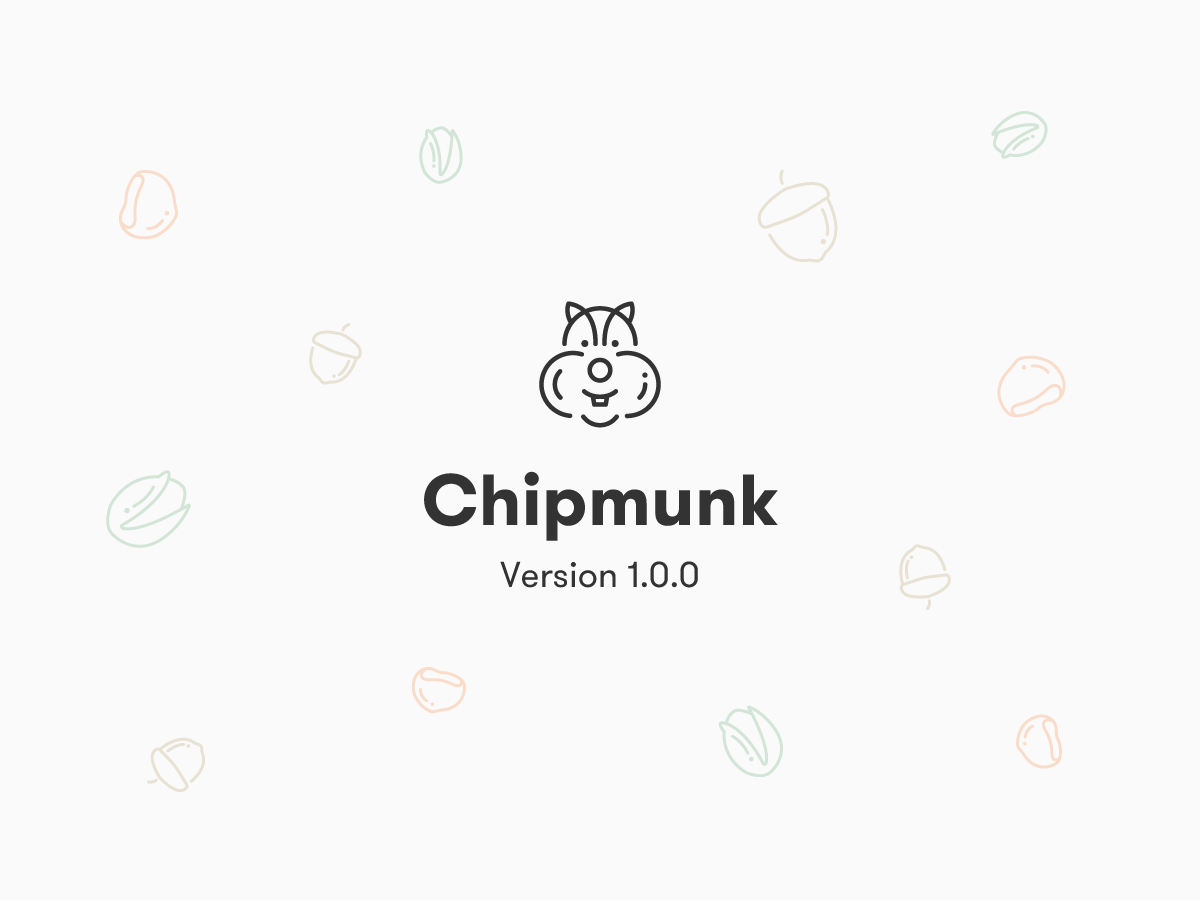
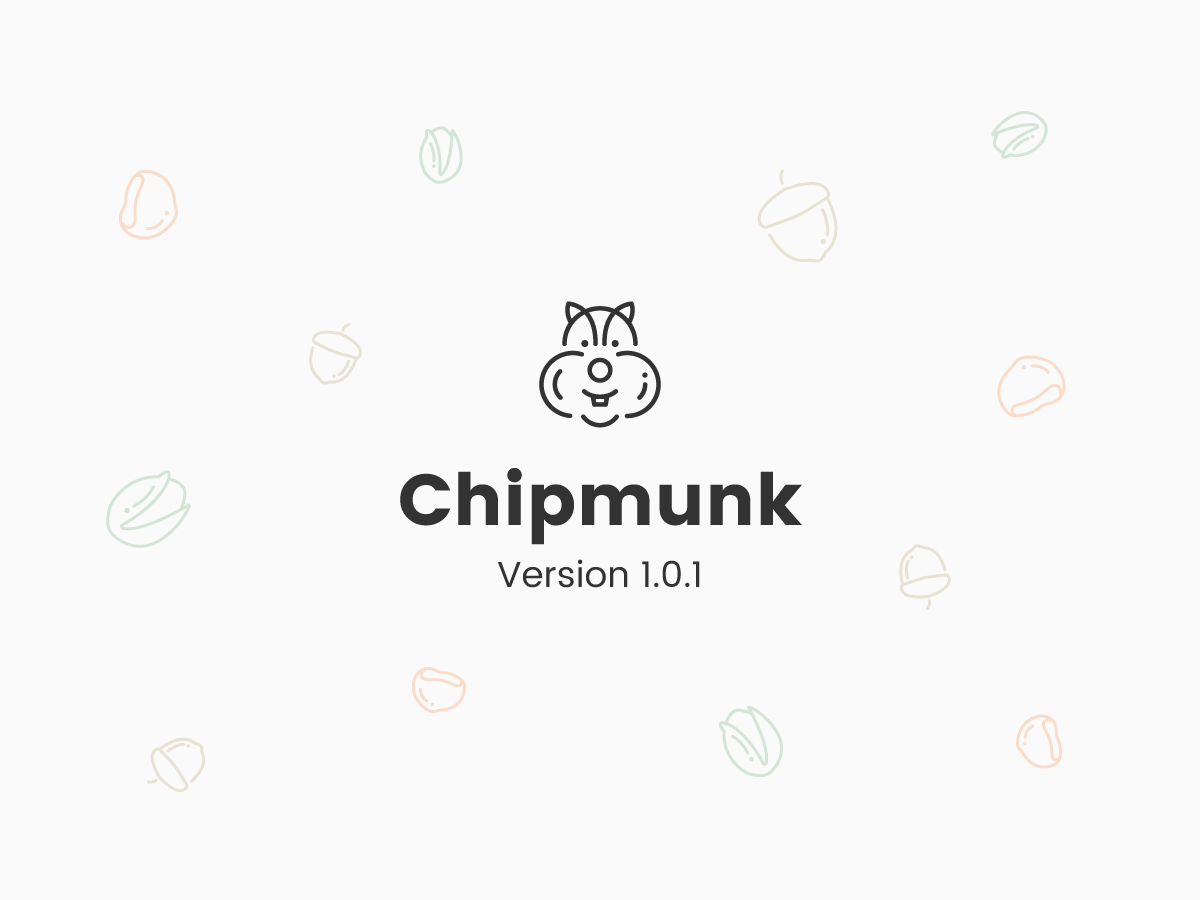
Bump the project version

Changed region(s): [[0.3083, 0.5289, 0.6783, 0.6533]]

diff --git a/style.css b/style.css
@@ -2,7 +2,7 @@
 * Theme URI: http://chipmunktheme.com
 * Author: Chipmunk Theme team
 * Author URI: http://chipmunktheme.com
-* Version: 1.0.0
+* Version: 1.0.1
 * Description: Chipmunk WordPress Theme is tailored to meet the increased demand in curated content. Carefully crafted with the user in mind, to aid in great content discovery. Have fun becoming a curator and influencer.
 * Tags: light, responsive-layout, one-column, three-columns, custom-colors, custom-menu, theme-options, translation-ready, grid-layout
 * License: GNU General Public License version 3.0

diff --git a/functions.php b/functions.php
@@ -49,10 +49,10 @@ class Chipmunk
   public function enqueue_assets()
   {
     // Load our main stylesheet
-    wp_enqueue_style('chipmunk-styles', get_template_directory_uri().'/static/dist/styles/main.min.css', array(), '1.0.0');
+    wp_enqueue_style('chipmunk-styles', get_template_directory_uri().'/static/dist/styles/main.min.css', array(), '1.0.1');
 
     // Load our main script.
-    wp_enqueue_script('chipmunk-scripts', get_template_directory_uri().'/static/dist/scripts/main.min.js', array(), '1.0.0', true);
+    wp_enqueue_script('chipmunk-scripts', get_template_directory_uri().'/static/dist/scripts/main.min.js', array(), '1.0.1', true);
   }
 
   /**
@@ -61,7 +61,7 @@ class Chipmunk
   public function enqueue_admin_assets()
   {
     // Load our main stylesheet
-    wp_enqueue_style('chipmunk-admin-styles', get_template_directory_uri().'/admin.css', array(), '1.0.0');
+    wp_enqueue_style('chipmunk-admin-styles', get_template_directory_uri().'/admin.css', array(), '1.0.1');
   }
 
   /**
